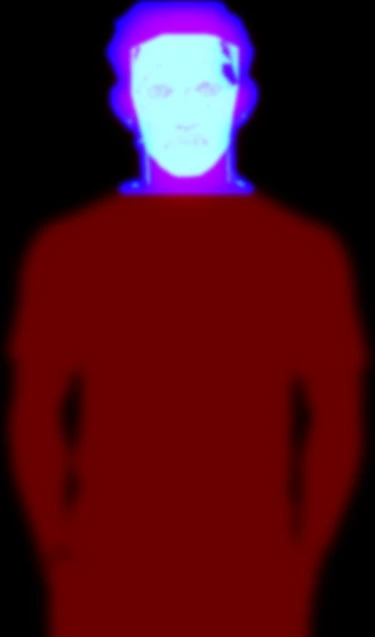
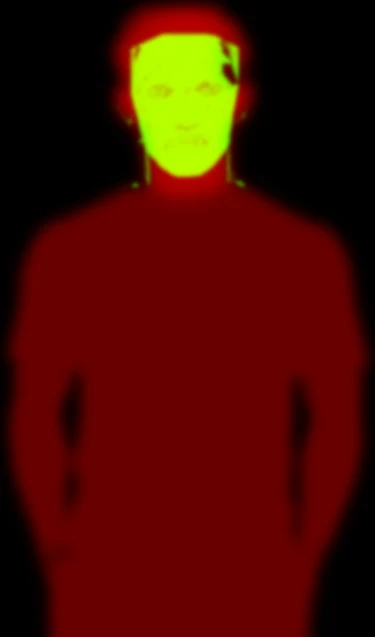
Hero: face reveal like the photo version - soft-focus face, the fluid reveals the sharp mask in its own colours; fix a hole in the hair cutout
Claude-Session: https://claude.ai/code/session_012cec7NEVhy4qqBC1Pf6D8n

Changed region(s): [[0.264, 0.0, 0.704, 0.3281]]

diff --git a/js/model.js b/js/model.js
@@ -1,15 +1,15 @@
 // PAYLOT hero model (cartoon) — liquid reveal.
 // One full-screen WebGL quad draws the model photo into the hero figure box:
-//   base layer  : the cartoon trader in a black kit
-//   reveal layer: the same trader in a lime PAYLOT kit (black mask, lime shirt)
+//   base layer  : the cartoon trader with a soft-focus face
+//   reveal layer: the same trader, mask sharp and in its own colours
 // A liquid blob follows the finger / cursor and leaves a fading trail; where the
-// blob is, the lime layer shows through. A depth map adds a slight 3D tilt.
+// blob is, the mask shows through. A depth map adds a slight 3D tilt.
 // When nobody is touching, the blob drifts around the face on its own.
 
 const LIME = [184 / 255, 1, 46 / 255];
-const SRC = { L0: 'assets/model-base.webp?v=20261114e', L1: 'assets/model-mask.webp?v=20261114e', D: 'assets/model-depth.webp?v=20261114e' };
+const SRC = { L0: 'assets/model-base.webp?v=20261114f', L1: 'assets/model-mask.webp?v=20261114f', D: 'assets/model-depth.webp?v=20261114f' };
 const IW = 750, IH = 1275;               // source image size (all layers share it)
-const FACE = [369 / IW, 470 / IH];       // idle drift centre (between face and chest)
+const FACE = [369 / IW, 213 / IH];       // face centre: the idle reveal drifts around it
 
 const VS = 'attribute vec2 p;void main(){gl_Position=vec4(p,0.,1.);}';
 const FS = `precision highp float;
@@ -32,7 +32,6 @@ void main(){
   float w=n(fc*.008+t*.35)*.6+n(fc*.02-t*.5)*.4;
   float b=texture2D(B,su+(vec2(n(fc*.01+t*.2),n(fc*.01-t*.2))-.5)*vec2(.035,-.035)).r;
   float v=max(b+(w-.5)*.35, lock*1.2-.5+(w-.5)*.3);
-  float keep=d.b;  // head area: the mask keeps its own colours (it only gets shinier under the blob)
   float r=smoothstep(.28,.34,v);
   // glossy highlight on the mask
   vec2 e=vec2(9./rect.z,9./rect.w);
@@ -40,16 +39,15 @@ void main(){
   vec3 N=normalize(vec3((dl-dr)*3.,(du-dd)*3.,1.));
   vec3 Ld=normalize(vec3(light,1.1)), H=normalize(Ld+vec3(0,0,1));
   float cv1=texture2D(D,uv+o1).g;
-  float spec=pow(max(dot(N,H),0.),mix(120.,50.,keep))*mix(.45,.7,keep)*cv1;
-  c1.rgb=c1.rgb*(1.+.25*keep*cv1)+vec3(spec)*c1.a;
+  c1.rgb+=vec3(pow(max(dot(N,H),0.),120.)*.45*cv1)*c1.a;
   vec4 col=mix(c0,c1,r);
   // lime rim light on the silhouette, on the side away from the light
   vec2 ro=normalize(vec2(-light.x,light.y)+vec2(.001))*vec2(4./rect.z,4./rect.w)*2.;
-  float rim=col.a*(1.-texture2D(L0,uv+o+ro).a)*(1.-keep);
+  float rim=col.a*(1.-texture2D(L0,uv+o+ro).a);
   col.rgb+=lime*rim*.55;
-  // thin line on the edge of the blob: lime over the body, white over the head
+  // thin lime line on the edge of the blob, only over the body
   float edge=(smoothstep(.22,.25,v)-smoothstep(.25,.28,v))*max(c0.a,c1.a)*(1.-lock);
-  col=mix(col,vec4(mix(lime,vec3(1.),keep),1.),edge*mix(.9,.7,keep));
+  col=mix(col,vec4(lime,1.),edge*.9);
   // fade out the bottom (the photo is cropped at the hips)
   col*=smoothstep(1.,.84,uv.y)*alpha;
   gl_FragColor=col;
@@ -224,10 +222,10 @@ export async function initModel({ canvas, anchor, hero, finePointer, mobile }) {
       ty = ((y - (rect[1] + rect[3] * 0.4)) / Math.max(rect[3], 1)) * 1.4;
       tx = Math.max(-1, Math.min(1, tx)); ty = Math.max(-1, Math.min(1, ty));
     } else {
-      // idle: drift over the mask and chest so people know to try
+      // idle: drift around the face so people know to try
       const fx = rect[0] + rect[2] * FACE[0], fy = rect[1] + rect[3] * FACE[1];
       x = fx + Math.cos(t * 0.9) * rect[2] * 0.16;
-      y = fy + Math.sin(t * 1.3) * rect[3] * 0.2;
+      y = fy + Math.sin(t * 1.3) * rect[3] * 0.08;
       tx = Math.cos(t * 0.5) * 0.35; ty = Math.sin(t * 0.7) * 0.25;
     }
     if (ptr.px < -9e4) { ptr.px = x; ptr.py = y; }

diff --git a/index.html b/index.html
@@ -11,7 +11,7 @@
   <link rel="preconnect" href="https://fonts.googleapis.com">
   <link rel="preconnect" href="https://fonts.gstatic.com" crossorigin>
   <link rel="stylesheet" href="https://fonts.googleapis.com/css2?family=Anton&family=Inter:wght@400;500;600&display=swap">
-  <link rel="stylesheet" href="css/style.css?v=20261114e">
+  <link rel="stylesheet" href="css/style.css?v=20261114f">
   <link rel="preload" as="image" href="assets/model-base.webp" fetchpriority="high">
   <!-- Critical preloader styles live here so a stale cached stylesheet can never show it unstyled -->
   <style>
@@ -213,6 +213,6 @@
     <a class="btn btn--primary" data-telegram href="#" target="_blank" rel="noopener" tabindex="-1">Join on Telegram</a>
   </div>
 
-  <script type="module" src="js/main.js?v=20261114e"></script>
+  <script type="module" src="js/main.js?v=20261114f"></script>
 </body>
 </html>

diff --git a/js/main.js b/js/main.js
@@ -1,4 +1,4 @@
-import { TELEGRAM_URL, REBATE_PER_LOT } from './config.js?v=20261114e';
+import { TELEGRAM_URL, REBATE_PER_LOT } from './config.js?v=20261114f';
 
 const root = document.documentElement;
 const { gsap, ScrollTrigger, SplitText, Lenis } = window;
@@ -309,7 +309,7 @@ async function loadFigure() {
   if (!webglAvailable()) return debugNote('static: no WebGL');
   if (lowTier && !forceCoin) return debugNote('static: low-tier device');
   try {
-    const { initModel } = await import('./model.js?v=20261114e');
+    const { initModel } = await import('./model.js?v=20261114f');
     figure = await initModel({
       canvas,
       anchor: document.querySelector('[data-figure-anchor]'),
